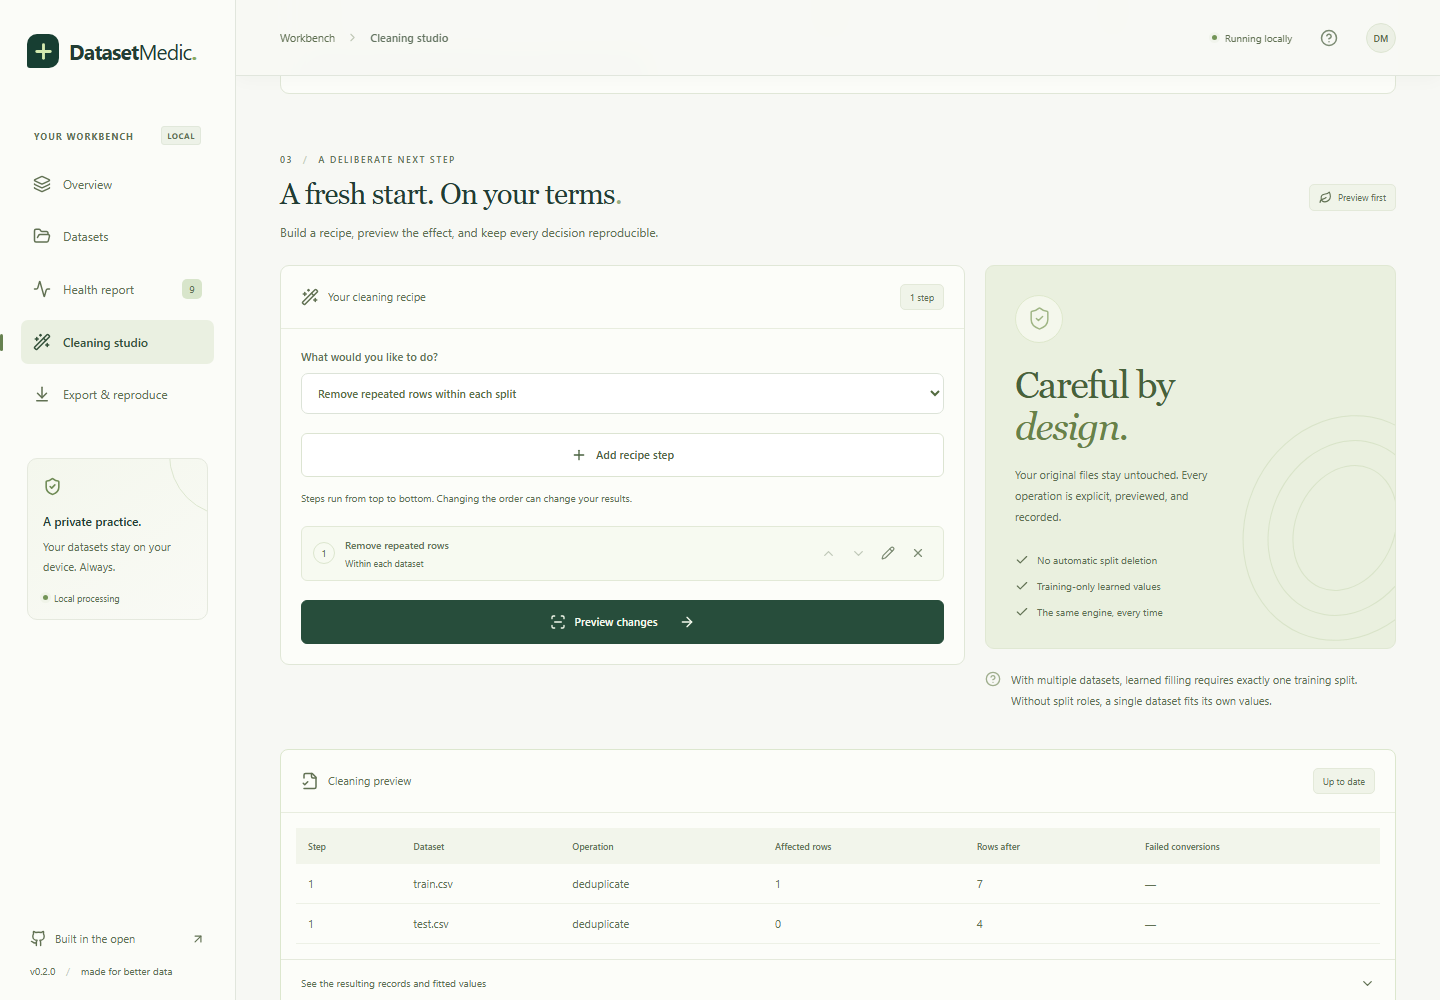
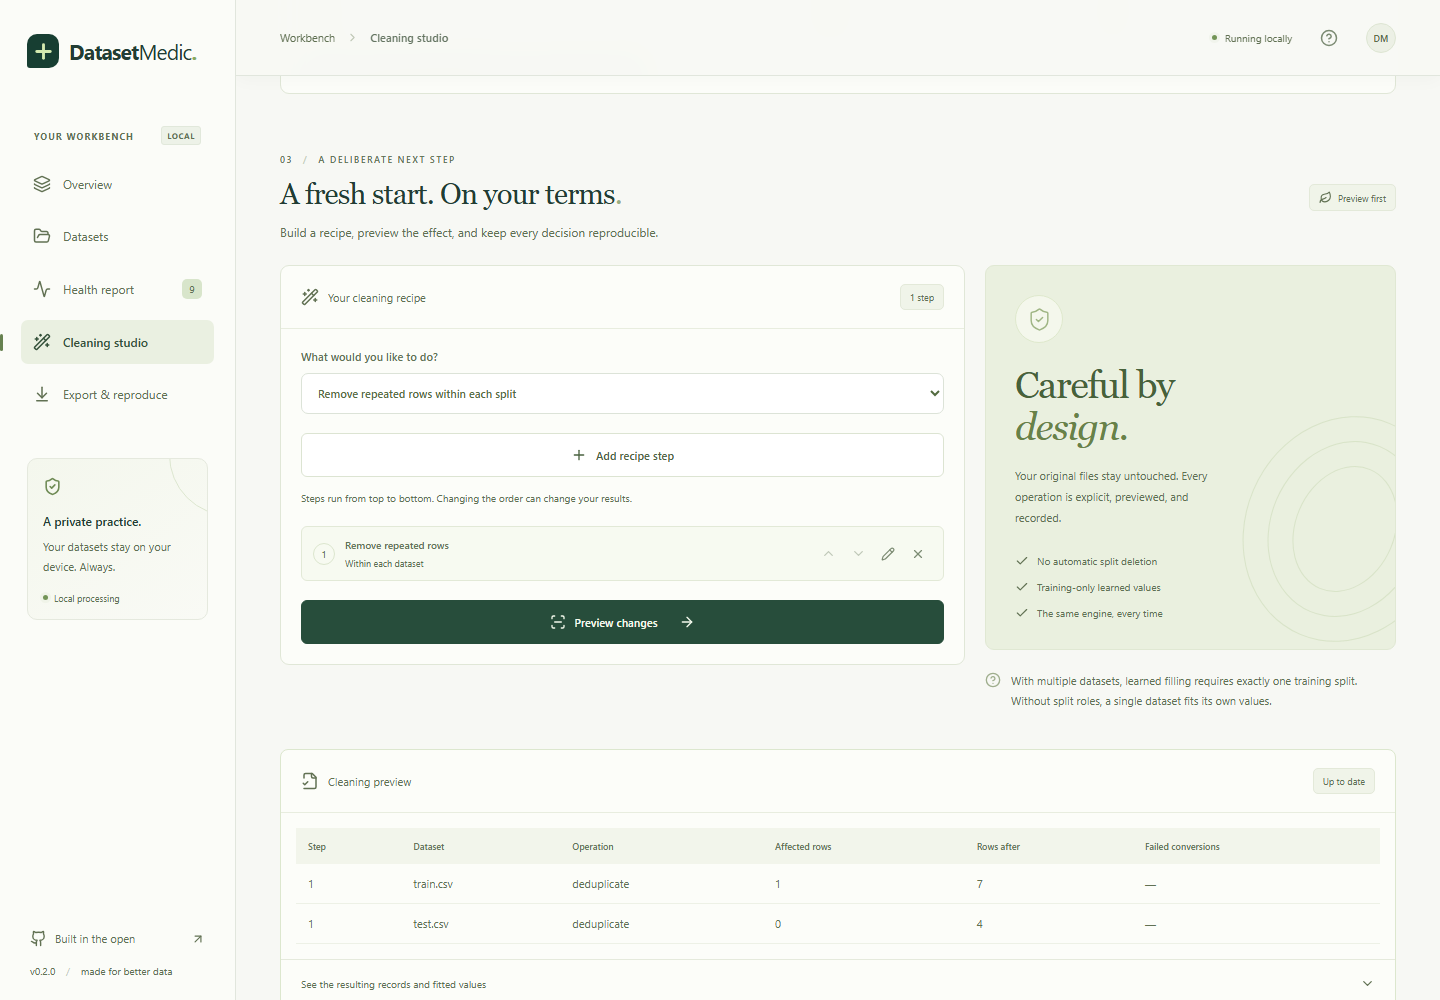
feat: search and review column selections in wide datasets

diff --git a/web/src/App.tsx b/web/src/App.tsx
@@ -4,6 +4,7 @@ import { Activity, ArrowDown, ArrowDownToLine, ArrowRight, ArrowUpRight, Check, 
 import type { components } from './schema';
 import { version as appVersion } from '../package.json';
 import { RecipeList, STEP_TITLES } from './RecipeList';
+import { ColumnPicker } from './ColumnPicker';
 
 type Config = components['schemas']['AuditConfig'];
 type Step = components['schemas']['Step'];
@@ -275,7 +276,7 @@ export default function App() {
           </div></Reveal>
           {datasets.length===0&&<Reveal><div className="demo-strip"><div className="demo-badge"><FlaskConical size={21}/></div><div><strong>Just looking around?</strong><p>Try a tiny dataset with a few carefully planted problems.</p></div><button className="text-button" onClick={demo} disabled={busy||!sid}>Load sample datasets <ArrowRight size={16}/></button></div></Reveal>}
           {datasets.length>0&&<div className="dataset-list">{datasets.map(d=><div className="dataset-row" key={d.id}><span className="file-icon"><FileSpreadsheet size={21}/></span><div className="dataset-name"><strong>{d.name}</strong><span>{(d.size/1024).toFixed(1)} KiB <span>·</span> Local session copy</span></div><label className="role-label">Split role<select aria-label={`Split role for ${d.name}`} value={config.roles?.[d.id]||'dataset'} onChange={e=>changeConfig({...config,roles:{...config.roles,[d.id]:e.target.value as 'train'|'test'|'validation'|'dataset'}})} disabled={busy}><option value="dataset">Unassigned</option><option value="train">Training</option><option value="validation">Validation</option><option value="test">Test</option></select></label></div>)}<div className="dataset-actions"><button className="text-button muted" onClick={clear} disabled={busy}><Trash2 size={15}/> Clear session</button><button className="button primary" onClick={()=>run('audit')} disabled={busy}><ScanLine size={16}/> Run health check <ArrowRight size={16}/></button></div></div>}
-          {profile&&<Reveal><details className="settings-panel" open><summary><Settings2 size={17}/> Make the check yours <ChevronDown size={15}/></summary><div className="settings-grid"><label>Target column<select value={config.target||''} onChange={e=>changeConfig({...config,target:e.target.value||null})} disabled={busy}><option value="">No target selected</option>{columnNames.map(c=><option key={c}>{c}</option>)}</select><small>Used for class balance. Excluded from default feature matching.</small></label><fieldset disabled={busy}><legend>Subject / group columns</legend><div className="chip-picker">{columnNames.map(c=><button className={config.groups?.includes(c)?'chip selected':'chip'} aria-pressed={config.groups?.includes(c)||false} key={c} onClick={()=>changeConfig({...config,groups:config.groups?.includes(c)?config.groups.filter(x=>x!==c):[...(config.groups||[]),c]})}>{config.groups?.includes(c)&&<Check size={12}/>} {c}</button>)}</div><small>Find subjects shared between splits.</small></fieldset><fieldset disabled={busy}><legend>Feature columns for exact matching</legend><div className="chip-picker">{columnNames.map(c=><button className={config.features?.includes(c)?'chip selected':'chip'} aria-pressed={config.features?.includes(c)||false} key={c} onClick={()=>changeConfig({...config,features:config.features?.includes(c)?config.features.filter(x=>x!==c):[...(config.features||[]),c]})}>{config.features?.includes(c)&&<Check size={12}/>} {c}</button>)}</div><small>Leave empty to compare common columns, excluding target and groups.</small></fieldset></div><div className="settings-footer"><button className="button secondary" onClick={()=>run('audit')} disabled={busy}><ScanLine size={15}/> Update health check</button></div></details></Reveal>}
+          {profile&&<Reveal><details className="settings-panel" open><summary><Settings2 size={17}/> Make the check yours <ChevronDown size={15}/></summary><div className="settings-grid"><label>Target column<select value={config.target||''} onChange={e=>changeConfig({...config,target:e.target.value||null})} disabled={busy}><option value="">No target selected</option>{columnNames.map(c=><option key={c}>{c}</option>)}</select><small>Used for class balance. Excluded from default feature matching.</small></label><ColumnPicker key={`groups-${activeDataset}`} label="Subject / group columns" columns={columnNames} selected={config.groups||[]} disabled={busy} onChange={groups=>changeConfig({...config,groups})} hint="Find subjects shared between splits."/><ColumnPicker key={`features-${activeDataset}`} label="Feature columns for exact matching" columns={columnNames} selected={config.features||[]} disabled={busy} onChange={features=>changeConfig({...config,features})} hint="Leave empty to compare common columns, excluding target and groups."/></div><div className="settings-footer"><button className="button secondary" onClick={()=>run('audit')} disabled={busy}><ScanLine size={15}/> Update health check</button></div></details></Reveal>}
         </section>
 
         <section id="findings" className="content-section">
@@ -293,7 +294,7 @@ export default function App() {
 
         <section id="cleaning" className="content-section">
           <Reveal><div className="section-heading"><div><div className="section-kicker">03 <span>/</span> A DELIBERATE NEXT STEP</div><h2>A fresh start. On your terms<span>.</span></h2><p>Build a recipe, preview the effect, and keep every decision reproducible.</p></div><span className="pill"><Leaf size={13}/> Preview first</span></div></Reveal>
-          <Reveal><div className="cleaning-layout"><div className={`recipe-builder ${editingIndex !== null ? 'editing' : ''}`}><div className="panel-title"><span><WandSparkles size={18}/> Your cleaning recipe</span><span className="pill">{steps.length} {steps.length === 1 ? 'step' : 'steps'}</span></div><div className="builder-body">{editingIndex !== null && <div className="recipe-edit-note"><span>Editing step {editingIndex + 1}. Changes apply when saved.</span><button className="text-button" onClick={cancelEdit} disabled={busy}>Cancel editing</button></div>}<label>What would you like to do?<select ref={operationInput} value={op} disabled={busy} onChange={e=>{setOp(e.target.value as Step['op']);setStepColumns([]);}}><option value="deduplicate">Remove repeated rows within each split</option><option value="drop">Drop selected columns</option><option value="trim">Trim text whitespace</option><option value="cast">Convert column types</option><option value="fill">Fill missing values</option></select></label>{op!=='deduplicate'&&<fieldset disabled={busy||!profile}><legend>Choose columns</legend><div className="chip-picker">{columnNames.map(c=><button key={c} className={stepColumns.includes(c)?'chip selected':'chip'} aria-pressed={stepColumns.includes(c)} onClick={()=>setStepColumns(stepColumns.includes(c)?stepColumns.filter(x=>x!==c):[...stepColumns,c])}>{stepColumns.includes(c)&&<Check size={12}/>} {c}</button>)}</div></fieldset>}{op==='cast'&&<label>Convert to<select value={castType} disabled={busy} onChange={e=>setCastType(e.target.value as typeof castType)}><option value="decimal">Decimal number</option><option value="integer">Integer</option><option value="text">Text</option><option value="boolean">Boolean (true / false / 1 / 0)</option><option value="date">Date (YYYY-MM-DD)</option></select></label>}{op==='fill'&&<><label>Fill strategy<select value={fillMethod} disabled={busy} onChange={e=>setFillMethod(e.target.value as typeof fillMethod)}><option value="median">Training median (numeric columns)</option><option value="mode">Training mode (most frequent)</option><option value="constant">Constant value</option></select></label>{fillMethod==='constant'&&<label>Fill value<input value={fillValue} disabled={busy} onChange={e=>setFillValue(e.target.value)} placeholder="e.g. 0, true, or Unknown"/></label>}</>}
+          <Reveal><div className="cleaning-layout"><div className={`recipe-builder ${editingIndex !== null ? 'editing' : ''}`}><div className="panel-title"><span><WandSparkles size={18}/> Your cleaning recipe</span><span className="pill">{steps.length} {steps.length === 1 ? 'step' : 'steps'}</span></div><div className="builder-body">{editingIndex !== null && <div className="recipe-edit-note"><span>Editing step {editingIndex + 1}. Changes apply when saved.</span><button className="text-button" onClick={cancelEdit} disabled={busy}>Cancel editing</button></div>}<label>What would you like to do?<select ref={operationInput} value={op} disabled={busy} onChange={e=>{setOp(e.target.value as Step['op']);setStepColumns([]);}}><option value="deduplicate">Remove repeated rows within each split</option><option value="drop">Drop selected columns</option><option value="trim">Trim text whitespace</option><option value="cast">Convert column types</option><option value="fill">Fill missing values</option></select></label>{op!=='deduplicate'&&<ColumnPicker key={`${activeDataset}-${op}-${editingIndex}`} label="Choose columns" columns={columnNames} selected={stepColumns} disabled={busy||!profile} onChange={setStepColumns}/>}{op==='cast'&&<label>Convert to<select value={castType} disabled={busy} onChange={e=>setCastType(e.target.value as typeof castType)}><option value="decimal">Decimal number</option><option value="integer">Integer</option><option value="text">Text</option><option value="boolean">Boolean (true / false / 1 / 0)</option><option value="date">Date (YYYY-MM-DD)</option></select></label>}{op==='fill'&&<><label>Fill strategy<select value={fillMethod} disabled={busy} onChange={e=>setFillMethod(e.target.value as typeof fillMethod)}><option value="median">Training median (numeric columns)</option><option value="mode">Training mode (most frequent)</option><option value="constant">Constant value</option></select></label>{fillMethod==='constant'&&<label>Fill value<input value={fillValue} disabled={busy} onChange={e=>setFillValue(e.target.value)} placeholder="e.g. 0, true, or Unknown"/></label>}</>}
             <button ref={saveStepButton} className="button secondary full-width" onClick={addStep} disabled={busy||!profile||(editingIndex===null&&steps.length>=50)}><Plus size={16}/>{editingIndex===null?'Add recipe step':'Save step changes'}</button>
             <p className="recipe-order-hint">Steps run from top to bottom. Changing the order can change your results.</p>
             <RecipeList steps={steps} busy={busy} editing={editingIndex!==null} onEdit={editStep} onMove={moveStep} onRemove={removeStep}/>

diff --git a/web/e2e/workflow.spec.ts b/web/e2e/workflow.spec.ts
@@ -2,6 +2,49 @@ import { test, expect } from '@playwright/test';
 import AxeBuilder from '@axe-core/playwright';
 import type { Page } from '@playwright/test';
 
+test('wide column search retains selections across filters and cleaning',async({page})=>{
+  await page.setViewportSize({width:390,height:844});
+  await page.goto('/');
+  const columns=['Subject_ID','城市',...Array.from({length:498},(_,i)=>`feature_${i}`)];
+  await page.locator('#file-import').setInputFiles({name:'search.csv',mimeType:'text/csv',buffer:Buffer.from(columns.join(',')+'\n'+columns.map(()=>1).join(',')+'\n')});
+  await page.getByRole('button',{name:'Run health check',exact:true}).click();
+  const groups=page.getByRole('group',{name:'Subject / group columns',exact:true});
+  const search=groups.getByRole('searchbox');
+  await search.fill('subject');
+  const subject=groups.getByRole('button',{name:'Subject_ID',exact:true});
+  await subject.focus(); await page.keyboard.press('Space');
+  await search.fill('城市');
+  await groups.getByRole('button',{name:'城市',exact:true}).click();
+  await expect(groups.getByRole('status')).toHaveText('1 of 500 columns shown · 2 selected');
+  await search.fill('no-match');
+  await expect(groups.getByText('No matching columns. Try another search.')).toBeVisible();
+  await search.fill('');
+  await groups.getByRole('button',{name:'Selected only (2)'}).click();
+  await expect(groups.getByRole('status')).toHaveText('2 of 500 columns shown · 2 selected');
+  await expect(subject).toHaveAttribute('aria-pressed','true');
+  await groups.getByRole('button',{name:'Clear selection',exact:true}).click();
+  await expect(groups.getByText('No columns selected.',{exact:false})).toBeVisible();
+  await groups.getByRole('button',{name:'Selected only (0)'}).click();
+  await expect(groups.getByRole('status')).toHaveText('500 of 500 columns shown · 0 selected');
+  const features=page.getByRole('group',{name:'Feature columns for exact matching',exact:true});
+  await features.getByRole('searchbox').fill('feature_497');
+  await features.getByRole('button',{name:'feature_497',exact:true}).click();
+  await expect(features.getByRole('status')).toHaveText('1 of 500 columns shown · 1 selected');
+  await page.getByLabel('What would you like to do?').selectOption('drop');
+  const cleaning=page.getByRole('group',{name:'Choose columns',exact:true});
+  await cleaning.getByRole('searchbox').fill('subject');
+  await cleaning.getByRole('button',{name:'Subject_ID',exact:true}).click();
+  await cleaning.getByRole('searchbox').fill('城市');
+  await cleaning.getByRole('button',{name:'城市',exact:true}).click();
+  await page.getByRole('button',{name:'Add recipe step'}).click();
+  await expect(page.getByRole('list',{name:'Ordered cleaning recipe'})).toContainText('Subject_ID, 城市');
+  await page.getByRole('button',{name:'Preview changes'}).click();
+  await expect(page.getByText('Up to date',{exact:true})).toBeVisible();
+  await page.getByText('See the resulting records and fitted values',{exact:true}).click();
+  await expect(page.locator('.preview-records thead th')).toHaveCount(498);
+  expect(await page.evaluate(()=>document.documentElement.scrollWidth<=innerWidth)).toBe(true);
+});
+
 const sessions = new Map<Page, string[]>();
 test.beforeEach(async ({page})=>{
   sessions.set(page,[]);

diff --git a/web/src/ColumnPicker.tsx b/web/src/ColumnPicker.tsx
@@ -1,0 +1,32 @@
+import { useId, useState } from 'react';
+import { Check, Search } from 'lucide-react';
+
+type Props = {
+  label: string;
+  columns: string[];
+  selected: string[];
+  onChange: (columns: string[]) => void;
+  disabled?: boolean;
+  hint?: string;
+};
+
+export function ColumnPicker({label, columns, selected, onChange, disabled, hint}: Props) {
+  const id = useId();
+  const [query, setQuery] = useState('');
+  const [selectedOnly, setSelectedOnly] = useState(false);
+  const visible = columns.filter(column => column.toLowerCase().includes(query.toLowerCase()) && (!selectedOnly || selected.includes(column)));
+  return <fieldset className="column-picker" disabled={disabled}>
+    <legend>{label}</legend>
+    <div className="column-search"><Search size={14} aria-hidden="true"/><input type="search" aria-label={`Search ${label.toLowerCase()}`} placeholder="Find a column…" value={query} onChange={event => setQuery(event.target.value)} aria-controls={`${id}-options`}/></div>
+    <div className="column-picker-tools">
+      <button type="button" className="text-button" aria-pressed={selectedOnly} onClick={() => setSelectedOnly(!selectedOnly)}>Selected only ({selected.length})</button>
+      <button type="button" className="text-button" disabled={!selected.length} onClick={() => onChange([])}>Clear selection</button>
+    </div>
+    <div className="chip-picker column-options" id={`${id}-options`} role="region" aria-label={`${label} options`} tabIndex={0}>
+      {visible.map(column => <button type="button" key={column} className={selected.includes(column) ? 'chip selected' : 'chip'} aria-pressed={selected.includes(column)} onClick={() => onChange(selected.includes(column) ? selected.filter(value => value !== column) : [...selected, column])}>{selected.includes(column) && <Check size={12} aria-hidden="true"/>} {column}</button>)}
+      {!visible.length && <p className="column-empty">{selectedOnly && !selected.length ? 'No columns selected. Turn off “Selected only” to browse.' : 'No matching columns. Try another search.'}</p>}
+    </div>
+    <p className="column-picker-count" role="status">{visible.length} of {columns.length} columns shown · {selected.length} selected</p>
+    {hint && <small>{hint}</small>}
+  </fieldset>;
+}

diff --git a/web/src/columns.css b/web/src/columns.css
@@ -1,0 +1,13 @@
+.column-picker{min-width:0}
+.column-search{display:flex;align-items:center;gap:8px;margin-top:10px;padding:0 10px;border:1px solid #dce3d8;border-radius:7px;background:#fff;color:#526647}
+.column-search input{width:100%;border:0;background:transparent;padding:10px 0;font-size:12px}
+.column-search:focus-within{outline:3px solid #7ca96a;outline-offset:2px}
+.column-search input:focus-visible{outline:none}
+.column-picker-tools{display:flex;justify-content:space-between;gap:8px;flex-wrap:wrap;margin:9px 0}
+.column-picker-tools .text-button{font-size:11px;padding:4px 0}
+.column-picker-tools [aria-pressed=true]{text-decoration:underline;text-underline-offset:3px;font-weight:700}
+.column-options{max-height:190px;overflow:auto;align-content:flex-start;padding:5px;margin:0 -5px;overscroll-behavior:contain;border-radius:4px}
+.column-options:focus-visible{outline:3px solid #7ca96a;outline-offset:1px}
+.column-options .chip{max-width:100%;overflow-wrap:anywhere;white-space:normal;text-align:left}
+.column-picker-count,.column-empty{font-size:11px;color:#536547;line-height:1.7;margin-top:7px}
+.column-empty{padding:6px 0}

diff --git a/web/src/main.tsx b/web/src/main.tsx
@@ -4,6 +4,7 @@ import App from './App';
 import './style.css';
 import './accessibility.css';
 import './recipe.css';
+import './columns.css';
 
 // One session per tab. StrictMode is intentionally omitted: its development-only effect replay creates sessions.
 ReactDOM.createRoot(document.getElementById('root')!).render(<App />);

diff --git a/ROADMAP.md b/ROADMAP.md
@@ -61,3 +61,11 @@ All 34 Python tests also passed after installing the v0.2.0 wheel into the clean
 The next heartbeat was delivered at 11:13 India time, later than the intended 10:00 slot; the recurrence remains encoded for the intended India-time schedule. A delayed delivery alone does not establish another timezone offset, so no further shift was made.
 
 Release complete: commit 738ff3d passed all four Windows/Linux × Python 3.11/3.14 CI jobs, including the full 13-scenario browser suite. Published [v0.2.0](https://github.com/Aadithya-Ram/DatasetMedic/releases/tag/v0.2.0) with the current wheel/source archive and SHA256SUMS. The public wheel download's SHA256 matches the locally verified build. All 34 Python tests passed both from source and the installed wheel. Earlier v0.1.0 assets remain intact. The working tree and remote HEAD were verified after pushing; the next useful areas remain import feedback for wide datasets, clearer comparisons, and memory/split benchmarking.
+
+## October 18, 2026 — searchable wide-schema selection
+
+Started with all four latest GitHub CI jobs passing. Added a shared searchable picker for subject groups, exact-match features and cleaning columns. Filtering preserves selections; selected-only review and explicit clearing help inspect them. Bounded scrolling keeps 500-column schemas compact. Counts, pressed states, Unicode search and keyboard controls are covered by a mobile browser regression that also verifies hidden selected columns reach the cleaning preview. Search state resets when changing datasets or cleaning operations. Refreshed real-app screenshots, added a selection screenshot and clearly marked the feature as source-only until the next release.
+
+The browser test runner exposed an unquoted Windows Python path; quoting it restores automatic server startup. Initial validation passed all 34 Python tests, lint, the production build and all 14 browser scenarios, including automated WCAG checks. The final rebuilt interface also passed all 14 browser scenarios with automatic server startup on Windows. Wheel build and bundled-asset checks passed. Remote CI results will be checked after push.
+
+This heartbeat arrived at 16:00 India time, matching the intended schedule after the earlier UTC recurrence correction. No further schedule change was needed. Community Wisdom: DevRelay tools remain unavailable; no community claims were used.

diff --git a/DEVELOPMENT.md b/DEVELOPMENT.md
@@ -8,6 +8,8 @@ React/TypeScript is built by Vite into the Python wheel. FastAPI serves it on a 
 
 The recipe editor keeps unsaved form values separate from the applied ordered recipe. Save replaces the selected step; Cancel discards the draft. Moving/removing is disabled while editing or running a job. Any saved edit, move or removal invalidates prior preview/export approval. Focus returns to the edited/moved/remaining control, with a live status announcement. Request shapes and the Python engine remain unchanged.
 
+Column pickers share case-insensitive name search, selected-only review and explicit clearing. Filtering never changes selections; scrollable lists keep wide schemas compact. Counts announce visible and selected columns. Search state resets when switching datasets or cleaning operations. An empty exact-match feature selection retains the documented automatic common-column behavior.
+
 ## Local setup
 
 Use Python 3.11+ and Node 22+. Install `.[dev]` in `.venv`, then run `npm ci` in `web`.

diff --git a/README.md b/README.md
@@ -66,6 +66,10 @@ Failed type conversions create null values and are counted in the preview. Expor
 
 **New in v0.2.0:** edit saved recipe steps or move them earlier/later without rebuilding the recipe. A changed recipe needs a fresh preview before export. Boolean constant fills accept `true`, `false`, `1` and `0`. Large integer IDs are displayed as exact text rather than rounded browser numbers. See the [changelog](CHANGELOG.md).
 
+**On `main` (next release):** searchable column pickers for subject groups, feature matching and cleaning. Filter names, review selected columns and keep selections across searches, even with 500 columns. The v0.2.0 download above is preserved; these additions currently require the source installation.
+
+![Searchable column selection in the current source build](docs/images/column-selection.png)
+
 ### What’s in an export?
 
 ```text

diff --git a/CHANGELOG.md b/CHANGELOG.md
@@ -1,5 +1,11 @@
 # Changelog
 
+## Unreleased
+
+- Search group, exact-match feature and cleaning columns by name, including Unicode names.
+- Review selected columns, clear selections, and keep selections across search filters. Scrollable column lists stay compact on wide datasets.
+- Quote the browser test server's Python path so automatic startup works on Windows and paths with spaces.
+
 ## 0.2.0 — October 18, 2026
 
 - Edit a cleaning step in place, save changes, or cancel without altering the approved recipe.
